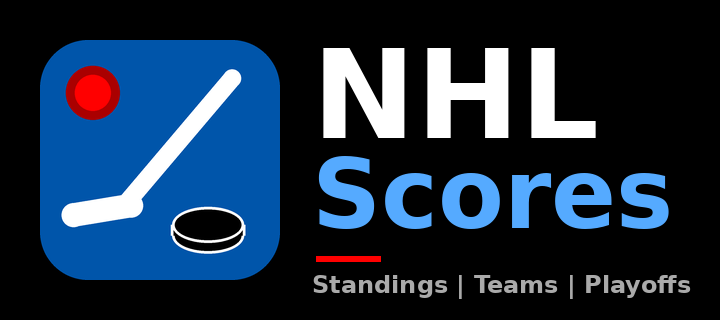
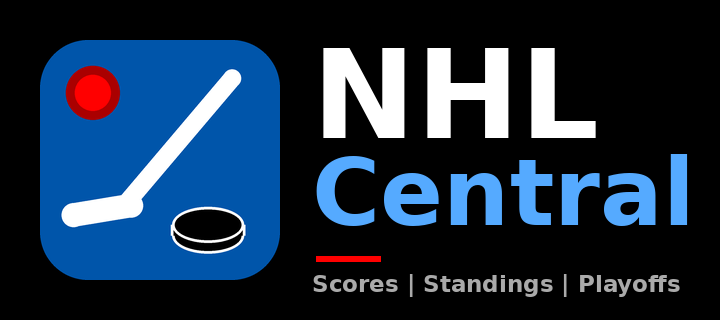
Rename the app to NHL Central
New display, short and long names, home screen title, settings page
title, README and banner. New home-screen screenshots show the new
title. The app ID is unchanged, so it updates the installed app.

Changed region(s): [[0.4278, 0.4688, 0.9778, 0.7188], [0.4278, 0.8438, 0.9778, 0.9375], [0.4278, 0.5, 0.4583, 0.5312]]

diff --git a/src/pkjs/index.js b/src/pkjs/index.js
@@ -1,4 +1,4 @@
-// ── NHL Scores - PebbleKit JS ─────────────────────────────────────────────
+// ── NHL Central - PebbleKit JS ─────────────────────────────────────────────
 // Fetches data from the NHL's free web API and sends each screen to the
 // watch as text rows: rows separated by "\n", fields separated by "|".
 // See the row formats at the top of src/c/list_window.c.
@@ -691,7 +691,7 @@ function settingsPage() {
   }
   return "<!DOCTYPE html><html><head><meta charset='utf-8'>" +
     "<meta name='viewport' content='width=device-width,initial-scale=1'>" +
-    "<title>NHL Scores</title><style>" +
+    "<title>NHL Central</title><style>" +
     "body{font-family:-apple-system,sans-serif;background:#111;color:#eee;margin:0;padding:16px}" +
     "h1{font-size:22px}h2{font-size:16px;color:#9ab;margin-top:24px}" +
     "select,button{width:100%;font-size:17px;padding:10px;border-radius:8px}" +
@@ -699,7 +699,7 @@ function settingsPage() {
     ".row{display:flex;justify-content:space-between;padding:10px 0;border-bottom:1px solid #333}" +
     ".grid{display:grid;grid-template-columns:repeat(4,1fr);gap:8px}.team{padding:6px 0}" +
     "p{color:#999;font-size:14px}" +
-    "</style></head><body><h1>NHL Scores</h1>" +
+    "</style></head><body><h1>NHL Central</h1>" +
     "<h2>My Team</h2><select id='fav'>" + opts + "</select>" +
     "<h2>Alerts</h2>" +
     toggle("vibrate", "Vibrate on goals", gSettings.vibrate) +

diff --git a/scripts/gen_art.py b/scripts/gen_art.py
@@ -1,5 +1,5 @@
 #!/usr/bin/env python3
-"""Draw the NHL Scores app icons and banner.
+"""Draw the NHL Central app icons and banner.
 
 Writes:
   resources/images/menu_icon.png     25x25 launcher icon (1-bit, white on black)
@@ -96,9 +96,13 @@ def draw_banner():
 
     x = 312
     d.text((x, 22), "NHL", font=font(124), fill=WHITE)
-    d.text((x, 138), "Scores", font=font(96), fill=SKY)
+    title = "Central"
+    tsize = 96
+    while d.textlength(title, font=font(tsize)) > w - x - 24:
+        tsize -= 1
+    d.text((x, 138), title, font=font(tsize), fill=SKY)
     d.rectangle((x + 4, 256, x + 4 + 64, 261), fill=RED)
-    tagline = "Standings | Teams | Playoffs"
+    tagline = "Scores | Standings | Playoffs"
     size = 26
     while d.textlength(tagline, font=font(size)) > w - x - 24:
         size -= 1

diff --git a/src/c/main.c b/src/c/main.c
@@ -1,4 +1,4 @@
-// ── NHL Scores · watch app ────────────────────────────────────────────────
+// ── NHL Central · watch app ────────────────────────────────────────────────
 #include "app.h"
 
 #define PERSIST_SETTINGS  1
@@ -24,7 +24,7 @@ static void build_home(void) {
   tracker_fav_game(&status, &live);
   int i = team_index(g_settings.fav);
   snprintf(s_data, sizeof(s_data),
-    "#|NHL Scores\n"
+    "#|NHL Central\n"
     "L|%s|%s|4|%s|%s\n"
     "L|Today's Games||1||\n"
     "L|Teams||0|teams|\n"

diff --git a/src/c/app.h b/src/c/app.h
@@ -1,4 +1,4 @@
-// ── NHL Scores · shared definitions ────────────────────────────────────────
+// ── NHL Central · shared definitions ────────────────────────────────────────
 #pragma once
 #include <pebble.h>
 

diff --git a/README.md b/README.md
@@ -1,6 +1,6 @@
-<p align="center"><img src="screenshots/banner.png" width="480" alt="NHL Scores"></p>
+<p align="center"><img src="screenshots/banner.png" width="480" alt="NHL Central"></p>
 
-# NHL Scores 🏒
+# NHL Central 🏒
 
 The whole NHL on your Pebble. Follow your team, browse every game, and check the standings, using the buttons or the touchscreen.
 
